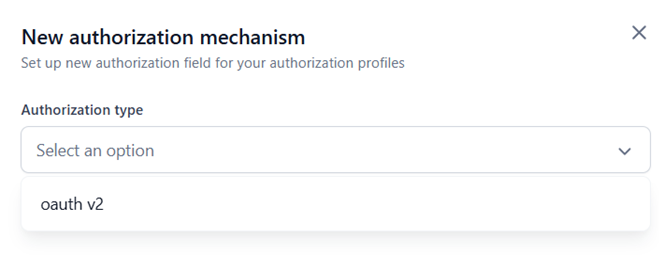
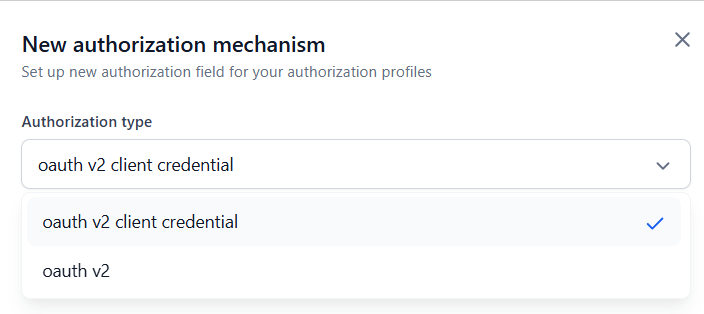
commit: auth profile added auth v2 client cred

diff --git a/docs/agent-platform/settings/security-and-control/authorization-profile.md b/docs/agent-platform/settings/security-and-control/authorization-profile.md
@@ -38,7 +38,7 @@ You can enable a single auth profile or create custom profiles tailored for acce
 
 OAuth 2.0 (OAuth2) is a standard authorization framework that enables applications to obtain limited, secure, and token-based access to a user’s account on an HTTP service, such as Google, Facebook, or GitHub without exposing the user's credentials. It supports multiple grant types, uses scopes for permissions, and enables long-term access with refresh tokens, making it ideal for API authentication.
 
-### Key Features
+**Key Features**
 
 * **Secure, Token-Based Authorization** – Grants access without sharing user credentials, using short-lived access tokens. 
 
@@ -50,6 +50,25 @@ OAuth 2.0 (OAuth2) is a standard authorization framework that enables applicatio
 
 * **Third-Party & Scalable Integration** – Widely adopted for API authentication, allowing secure third-party access (e.g., "*Sign in with Google*").
 
+### OAuth V2 Client Credential
+
+The Client Credentials flow is one of the OAuth 2.0 authorization grant types. It is primarily used in Machine-to-Machine (M2M) scenarios, where an application needs to access resources or perform operations on its own behalf — without user interaction.
+
+**How it Works**
+
+1. The client application authenticates with the Authorization Server by presenting its client ID and client secret.
+
+2. Upon successful authentication, the Authorization Server issues an access token.
+
+3. The client uses this token to authenticate API requests to the Resource Server.
+
+**Key Features**
+
+* **Client Credentials**: This flow uses the client's unique identifier (client ID) and a secret (client secret) to authenticate the application with the authorization server. 
+* **No User Interaction**: Unlike flows involving user authorization (e.g., authorization code flow), the client credentials flow doesn't require the user to log in or grant permissions. 
+* **Machine-to-Machine (M2M) Communication**: This flow is ideal for scenarios where one application needs to access resources owned by another application, such as microservices or server-to-server communication. 
+* **Resource Access**: The client uses the acquired access token to interact with the resource server and access protected resources. 
+* **Access Token**: The authorization server issues an access token, a short-lived credential that allows the client to access specific resources. 
 
 ## Add Authorization Profile
 
@@ -62,11 +81,11 @@ To add a new Auth profile, you must first set up the required auth fields with t
 Otherwise, click **Add new auth**.
 <img src="../images/add-new-auth-profile.png" alt="add new auth profile" title="add new auth profile" style="border: 1px solid gray; zoom:75%;">  
 
-<ol start="3"><li>In the <b>New Authorization Mechanism</b> dialog, select <i>oauth v2</i> for <b>Authorization Type</b>. 
+<ol start="3"><li>In the <b>New Authorization Mechanism</b> dialog, select the required option for <b>Authorization Type</b>. 
 <img src="../images/select-oauthv2.png" alt="select oauth v2" title="select oauth v2" style="border: 1px solid gray; zoom:75%;"></li>  
 <li>In the <b>Identity Provider Name</b> field, enter a name for the authorization type, which is mandatory.
 <img src="../images/identity-provider.png" alt="identity provider" title="identity provider" style="border: 1px solid gray; zoom:75%;"></li>
-<li>Provide the values for the mandatory OAuth2 authorization fields. For details, refer to the <a href="https://docs.kore.ai/agent-platform/settings/security-and-control/authorization-profile/#define-authorization-fields" target="_blank">Define Authorization Fields</a> section. 
+<li>Provide the values for the mandatory authorization fields. For details, refer to the <a href="https://docs.kore.ai/agent-platform/settings/security-and-control/authorization-profile/#define-authorization-fields" target="_blank">Define Authorization Fields</a> section. 
 
 If the mandatory fields are left blank, validation error messages appear, as shown below.
 
@@ -78,7 +97,7 @@ If the mandatory fields are left blank, validation error messages appear, as sho
 <p>If the default <b>Username</b> and <b>Password</b> fields do not meet your authorization requirements, you can add <b>custom fields</b> using additional fields or authorization IDP form fields to the authorization process. For example, if a <b>PIN code</b> is required in addition to the standard login fields, you can include it as an extra input for the end user.</p>
 </div>
     
-<ol start="7"><li>(Optional) Click <b>+ Add Authorization Field</b> to add additional auth fields to your profile. For more information, see the <a href="https://docs.kore.ai/agent-platform/settings/security-and-control/authorization-profile/#add-authorization-field" target="_blank">Add Authorization Field</a> section.</li>
+<ol start="7"><li>(Optional step to be executed only when you select <b><i>OAuth V2</i></b> as the Authorization type) Click <b>+ Add Authorization Field</b> to add additional auth fields to your profile. This is rewquired For more information, see the <a href="https://docs.kore.ai/agent-platform/settings/security-and-control/authorization-profile/#add-authorization-field" target="_blank">Add Authorization Field</a> section.</li>
 <li>Click <b>Save new Auth</b>.</li>
 <img src="../images/save-new-auth.png" alt="save new auth" title="save new auth" style="border: 1px solid gray; zoom:75%;"></ol>
 
@@ -103,14 +122,16 @@ To configure the OAuth2 profile, define the fields described in the table below:
    </td>
    <td>MANDATE
    </td>
+   <td>AUTH TYPE</td>
   </tr>
   <tr>
    <td><strong>Authorization Type</strong>
    </td>
-   <td>Select an option from the dropdown. OAuth2 is currently supported.
+   <td>Select an option from the dropdown. <i>OAuth V2</i> and <i>OAuth v2 Client Credential</i> are currently supported.
    </td>
    <td>Required
    </td>
+   <td>OAuth V2 and OAuth v2 Client Credential</td>
   </tr>
   <tr>
    <td><strong>Identity Provider Name</strong>
@@ -119,6 +140,7 @@ To configure the OAuth2 profile, define the fields described in the table below:
    </td>
    <td>Required
    </td>
+   <td>OAuth V2 and OAuth v2 Client Credential</td>
   </tr>
   <tr>
    <td><strong>Description</strong>
@@ -127,6 +149,7 @@ To configure the OAuth2 profile, define the fields described in the table below:
    </td>
    <td>Optional
    </td>
+   <td>OAuth V2 and OAuth v2 Client Credential</td>
   </tr>
   <tr>
    <td><strong>Callback URL</strong>
@@ -135,6 +158,7 @@ To configure the OAuth2 profile, define the fields described in the table below:
    </td>
    <td>Required
    </td>
+   <td>OAuth V2 and OAuth v2 Client Credential</td>
   </tr>
   <tr>
    <td><strong>Client ID</strong>
@@ -152,6 +176,7 @@ To configure the OAuth2 profile, define the fields described in the table below:
    </td>
    <td>Required
    </td>
+   <td>OAuth V2 and OAuth v2 Client Credential</td>
   </tr>
   <tr>
    <td><strong>Client Secret</strong>
@@ -161,6 +186,7 @@ To configure the OAuth2 profile, define the fields described in the table below:
    </td>
    <td>Required
    </td>
+   <td>OAuth V2 and OAuth v2 Client Credential</td>
   </tr>
   <tr>
    <td><strong>Authorization URL</strong>
@@ -170,6 +196,7 @@ To configure the OAuth2 profile, define the fields described in the table below:
    </td>
    <td>Required
    </td>
+   <td>OAuth V2</td>
   </tr>
   <tr>
    <td><strong>Subdomain(aka tenancy URL)</strong>
@@ -185,6 +212,7 @@ To configure the OAuth2 profile, define the fields described in the table below:
    </td>
    <td>Required
    </td>
+   <td>OAuth V2</td>
   </tr>
   <tr>
    <td><strong>Token request URL</strong>
@@ -194,6 +222,7 @@ To configure the OAuth2 profile, define the fields described in the table below:
    </td>
    <td>Required
    </td>
+   <td>OAuth V2 and OAuth v2 Client Credential</td>
   </tr>
   <tr>
    <td><strong>Scope</strong>
@@ -204,6 +233,7 @@ Example: <code>read_profile</code>.
    </td>
    <td>Optional
    </td>
+   <td>OAuth V2 and OAuth v2 Client Credential</td>
   </tr>
   <tr>
    <td><strong>Additional Fields</strong>
@@ -213,6 +243,7 @@ Example: <code>read_profile</code>.
    </td>
    <td>Optional
    </td>
+   <td>OAuth V2</td>
   </tr>
   <tr>
    <td><strong>Authorization Fields</strong>
@@ -221,6 +252,7 @@ Example: <code>read_profile</code>.
     Refer <a href="https://docs.kore.ai/agent-platform/settings/security-and-control/authorization-profile/#add-authorization-field" target="_blank">here</a>.</td>
    <td>Optional
    </td>
+   <td>OAuth V2</td>
   </tr>
   <tr>
    <td><strong>Refresh token URL</strong>
@@ -238,6 +270,7 @@ Example: <code>read_profile</code>.
    </td>
    <td>Optional
    </td>
+   <td>OAuth V2</td>
   </tr>
   <tr>
    <td><strong>Auth Error Status Code</strong>
@@ -247,12 +280,13 @@ Example: <code>read_profile</code>.
    </td>
    <td>Optional
    </td>
+   <td>OAuth V2 and OAuth v2 Client Credential</td>
   </tr>
 </table>
 
 ## Add Additional Field
 
-These fields are used to collect additional authorization details from end users and allow you to incorporate extra security measures, such as a PIN code, device ID, or other parameters, alongside the standard credentials. By customizing the authorization input fields, you can enhance security and align the authorization process with your specific business or compliance needs.
+These fields are used to collect additional authorization details from end users and allow you to incorporate extra security measures, such as a PIN code, device ID, or other parameters, alongside the standard credentials for *OAuth V2*. By customizing the authorization input fields, you can enhance security and align the authorization process with your specific business or compliance needs.
 
 
 To add additional fields, follow the steps below:

diff --git a/docs/agent-platform/settings/monitoring/audit-logs.md b/docs/agent-platform/settings/monitoring/audit-logs.md
@@ -648,6 +648,75 @@ Additionally, you can set **custom filters** based on a specific category, event
   </tr>
   </table>
 
+   <table>
+   <tr>
+   <td colspan="3" align="center"><strong>Category</strong>: Manage Custom Scripts
+   </td>
+   </tr>
+   <tr>
+   <td colspan="3">
+   <b>Metadata</b>: <b><i>user ID</i></b>, <b><i>user name</i></b>, <b><i>IP Address</i></b>, and <b><i>custom script name</i></b> are displayed for all the category events below.
+   </td>
+  </tr>
+  <tr>
+   <td><strong>Event</strong>
+   </td>
+   <td><strong>Description</strong>
+   </td>
+   <td><strong>Additional Metadata</strong>
+   </td>
+  </tr>
+  <tr>
+   <td>Custom script saved as draft
+   </td>
+   <td>Tracks the custom script saved as a draft.
+   </td>
+   <td align="center">
+    -
+   </td>
+  </tr>
+  <tr>
+   <td>Custom script deployed
+   </td>
+   <td>Tracks the custom script deployment.
+   </td>
+   <td align="center"> -
+   </td>
+  </tr>
+    <tr>
+   <td>Custom script undeployed
+   </td>
+   <td>Tracks the custom script undeployment.
+   </td>
+   <td align="center"> -
+   </td>
+  </tr>
+      <tr>
+   <td>Custom script re-deployed
+   </td>
+   <td>Tracks the custom script redeployment.
+   </td>
+   <td align="center"> -
+   </td>
+  </tr>
+   <tr>
+   <td>Custom script deleted
+   </td>
+   <td>Tracks the custom script deletion.
+   </td>
+   <td align="center"> -
+   </td>
+  </tr>
+     <tr>
+   <td>Custom script exported
+   </td>
+   <td>Tracks the custom script export.
+   </td>
+   <td align="center"> -
+   </td>
+  </tr>
+  </table>
+
   <table>
      <tr>
      <td colspan="3" align="center"><strong>Category</strong>: Guardrails
@@ -689,6 +758,42 @@ Additionally, you can set **custom filters** based on a specific category, event
    </td>
   </tr>
 </table>
+
+<table>
+     <tr>
+     <td colspan="3" align="center"><strong>Category</strong>: Script
+   </td>
+   </tr>
+   <tr>
+   <td colspan="3">
+   <b>Metadata</b>: <b><i>user ID</i></b>, <b><i>user name</i></b>, <b><i>IP address</i></b>,<b><i> Agent ID</b></i>, <b><i>node name</b></i>, <b><i>node ID</i></b>, and <b><i>node type</b></i> are displayed for all the category events below.
+   </td>
+  </tr>
+  <tr>
+   <td><strong>Event</strong>
+   </td>
+   <td><strong>Description</strong>
+   </td>
+   <td><strong>Additional Metadata</strong>
+   </td>
+  </tr>
+  <tr>
+   <td>Write Code
+   </td>
+   <td>Tracks the user's selection to write a custom script.
+   </td>
+   <td align="center">
+    -
+   </td>
+  </tr>
+  <tr>
+   <td>Custom Function</td>
+   <td>Tracks the user's selection to execute a custom function.</td>
+   <td align="center">-
+   </td>
+  </tr>
+</table>
+
 
 ## Tool-Level Audit Logs
 
